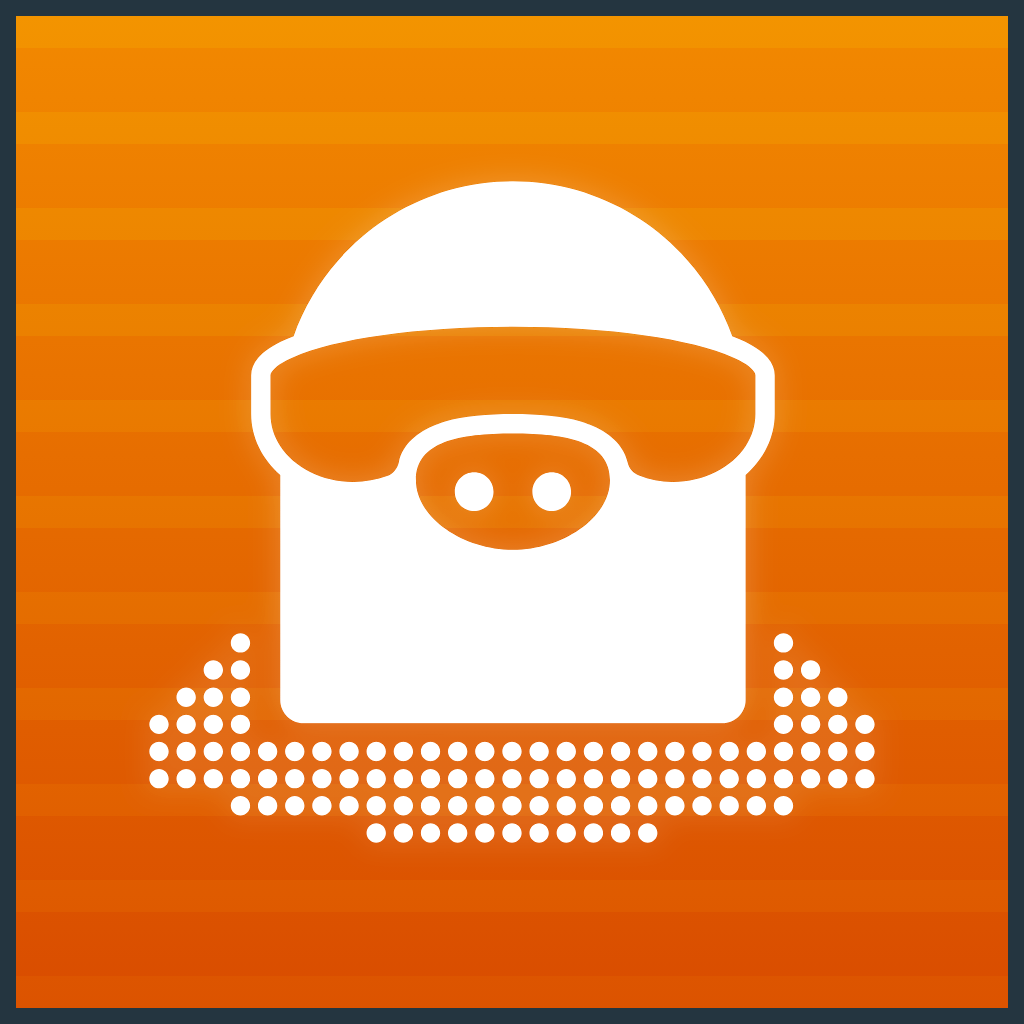
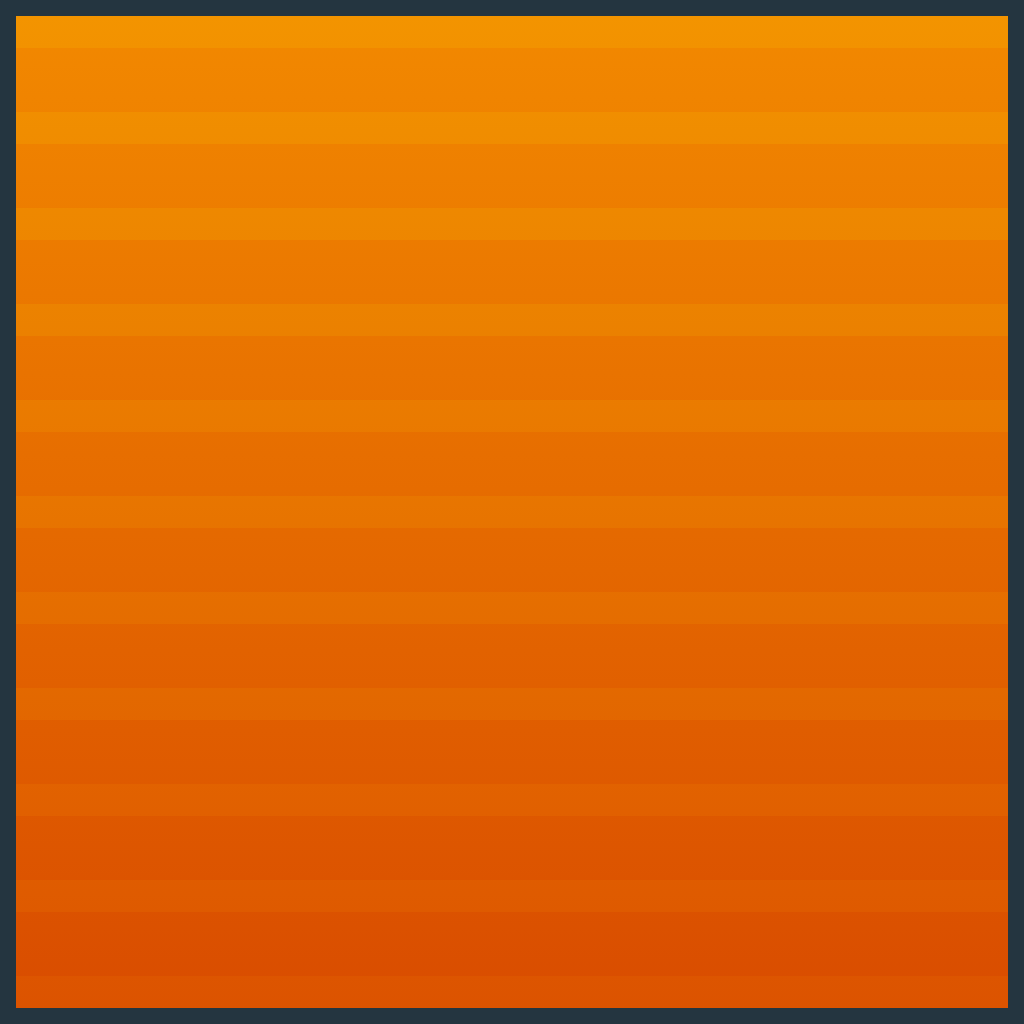
fix(mobile): preserve launcher scale and simplify Scanlines artwork
Match alternate Android foregrounds to the original launcher mark bounds, remove the mole from Scanlines, and round Android picker previews. Keep saved icon IDs stable.

Changed region(s): [[0.125, 0.1562, 0.875, 0.8438]]

diff --git a/apps/android/app/src/main/java/com/futo/notes/ui/settings/appicon/AppIconSheet.kt b/apps/android/app/src/main/java/com/futo/notes/ui/settings/appicon/AppIconSheet.kt
@@ -1,5 +1,7 @@
 package com.futo.notes.ui.settings.appicon
 
+import androidx.compose.foundation.shape.RoundedCornerShape
+import androidx.compose.ui.draw.clip
 import androidx.compose.foundation.Image
 import androidx.compose.foundation.layout.*
 import androidx.compose.foundation.lazy.grid.GridCells
@@ -67,7 +69,7 @@ fun AppIconSheet(controller: AppIconController, onSelect: (AppIcon) -> Unit, onD
                     colors = CardDefaults.outlinedCardColors(containerColor = colors.surface),
                 ) {
                     Column(Modifier.fillMaxWidth().padding(12.dp), horizontalAlignment = Alignment.CenterHorizontally) {
-                        Image(painterResource(icon.preview), contentDescription = null, modifier = Modifier.size(80.dp))
+                        Image(painterResource(icon.preview), contentDescription = null, modifier = Modifier.size(80.dp).clip(RoundedCornerShape(16.dp)))
                         Spacer(Modifier.height(8.dp))
                         Text(label, color = colors.textPrimary)
                         Box(Modifier.height(28.dp), contentAlignment = Alignment.Center) {

diff --git a/apps/android/app/src/main/java/com/futo/notes/ui/SettingsScreen.kt b/apps/android/app/src/main/java/com/futo/notes/ui/SettingsScreen.kt
@@ -56,6 +56,7 @@ import androidx.compose.runtime.remember
 import androidx.compose.runtime.rememberCoroutineScope
 import androidx.compose.runtime.setValue
 import androidx.compose.ui.Alignment
+import androidx.compose.ui.draw.clip
 import androidx.compose.ui.Modifier
 import androidx.compose.ui.graphics.Color
 import androidx.compose.ui.platform.LocalContext
@@ -194,7 +195,7 @@ fun SettingsScreen(
                 SettingsRow(
                     title = localization.localizedText(appIcons.selected.labelKey),
                     onClick = { showAppIcons = true },
-                    leading = { Image(painterResource(appIcons.selected.preview), null, Modifier.size(40.dp)) },
+                    leading = { Image(painterResource(appIcons.selected.preview), null, Modifier.size(40.dp).clip(RoundedCornerShape(8.dp))) },
                 ) {
                     Icon(Icons.AutoMirrored.Filled.KeyboardArrowRight, null, tint = c.textMuted)
                 }

diff --git a/docs/plan/mobile-app-icons.md b/docs/plan/mobile-app-icons.md
@@ -36,7 +36,7 @@ Light / Standard also returned design context successfully.
 | `dark-standard`  | Dark / Standard  | Figma `329:972`                                                | Orange mole on a dark background          |
 | `dark-reversed`  | Dark / Reversed  | Figma `329:974`                                                | Dark mole on orange                       |
 | `futo`           | FUTO             | Figma `335:6`                                                  | White mole on FUTO's dark blue background |
-| `website`        | Website          | The adjacent `../futo.tech` project card composition           | Website logo with its scanline treatment  |
+| `website`        | Scanlines        | The adjacent `../futo.tech` project card composition           | Orange gradient and scanlines, no mole    |
 
 The separate Figma Transparent frame (`329:983`) is not a seventh choice.
 
@@ -45,7 +45,7 @@ Keep the existing Light / Standard primary artwork for this feature. The current
 in scale and effects; adopting all of the latest default artwork would be a
 separate visual change. Generate a faithful preview of the existing default.
 
-The website option is a composed visual, not just an SVG:
+The Scanlines option keeps the website gradient and stripes without the mole (updated per maintainer request). Its stable ID remains `website`. The original composition is:
 
 - `../futo.tech/src/routes/projects/-projects.ts` maps FUTO Notes to
   `logoFutonotes`.

diff --git a/docs/spec/settings.md b/docs/spec/settings.md
@@ -340,7 +340,7 @@ replaced the "Report an issue" link to the GitHub issue tracker.
 ## Native app icons
 
 - _(native shells)_ An **App icon** section directly after Appearance shows the current icon thumbnail and localized name; tapping opens a native picker sheet. → apps/ios/Sources/Settings/AppIcon/, apps/android/app/src/main/java/com/futo/notes/ui/settings/appicon/
-- _(native shells)_ The six permanent choices are Light / Standard, Light / Reversed, Dark / Standard, Dark / Reversed, FUTO, and Website; the choice belongs to this installation and is independent of theme and sync.
+- _(native shells)_ The six permanent choices are Light / Standard, Light / Reversed, Dark / Standard, Dark / Reversed, FUTO, and Scanlines (the orange gradient and stripes without a mole); the choice belongs to this installation and is independent of theme and sync.
 - _(native shells)_ Selecting a choice requests an immediate OS change, keeps the sheet open, disables further choices while pending, and marks the actual OS selection only after readback; selecting the current choice is a no-op.
 - _(native shells)_ A failed request retains the actual icon and shows a localized error; dismissing the sheet does not undo a completed change.
 - _(iOS)_ The OS alternate-icon name is authoritative; the default uses nil, unsupported devices show the current preview and an unavailable message, and Apple's icon-change notification remains enabled.

diff --git a/assets/images/app-icons/README.md b/assets/images/app-icons/README.md
@@ -21,7 +21,7 @@ Dark / Reversed includes 32px export overflow; generation crops to the original
 `website-logo.svg` is copied from `futo.tech/src/assets/logos/logo-futonotes.svg`.
 `website.png` is the isolated ProjectCard tile captured using Chromium at 64 CSS
 pixels and 16× device scale: neutral-blue-800 (`rgb(17,33,43)`) background,
-1px neutral-blue-200 (`rgb(207,234,255)`) border at 10%, the colored logo filling
+1px neutral-blue-200 (`rgb(207,234,255)`) border at 10%, the orange gradient without the mole filling
 the inside, and a white 2px / transparent 4px scanline overlay at 9% opacity
 with overlay blending. There is no outside glow or outer rounded-square mask.
 The source of this composition is ProjectCard in `src/routes/projects/index.tsx`
@@ -30,3 +30,6 @@ regeneration never accesses that checkout.
 
 Android themed icons use the same monochrome mole for every choice, so system
 tinting deliberately suppresses differences in color and texture.
+
+Scanlines retains the stable `website` / `Website` asset identity for saved selections.
+Android alternate marks match the original launcher foreground size; picker previews use rounded corners.
